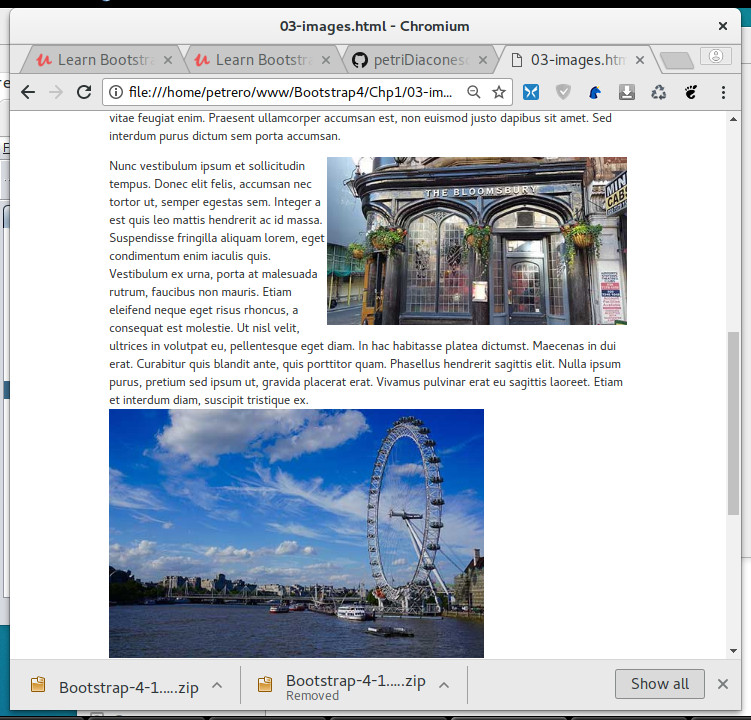
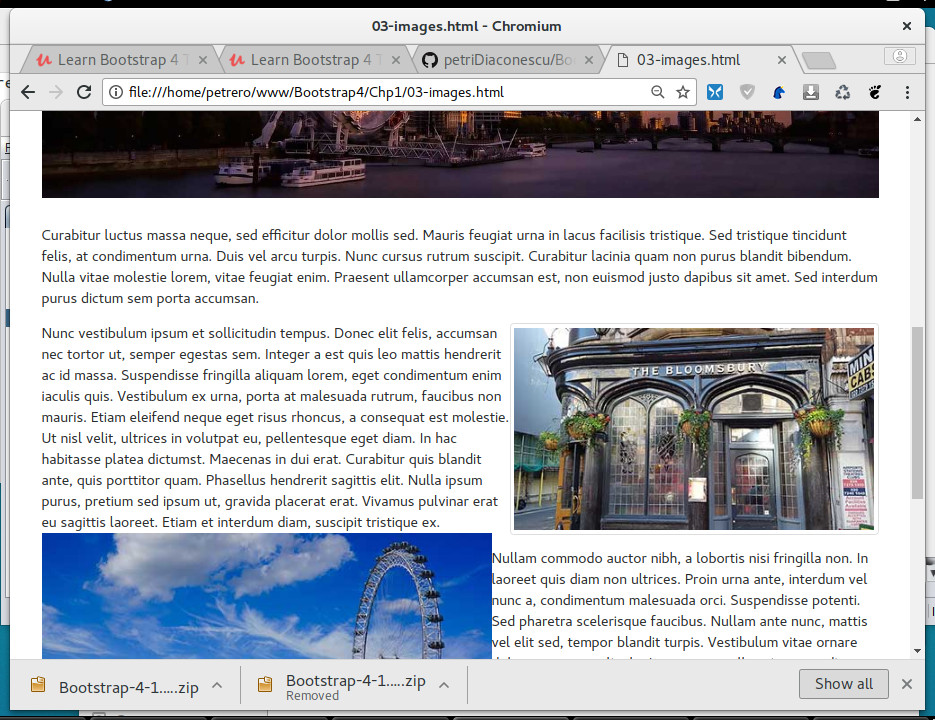
Add a thumbnail frame to images.

diff --git a/Chp1/03-images.html b/Chp1/03-images.html
@@ -33,10 +33,10 @@
                 
                 <p>Curabitur luctus massa neque, sed efficitur dolor mollis sed. Mauris feugiat urna in lacus facilisis tristique. Sed tristique tincidunt felis, at condimentum urna. Duis vel arcu turpis. Nunc cursus rutrum suscipit. Curabitur lacinia quam non purus blandit bibendum. Nulla vitae molestie lorem, vitae feugiat enim. Praesent ullamcorper accumsan est, non euismod justo dapibus sit amet. Sed interdum purus dictum sem porta accumsan.</p>
 
-                <img src="img/image_02.jpg" class="img-fluid float-right">
+                <img src="img/image_02.jpg" class="img-fluid float-right img-thumbnail">
                 <p>Nunc vestibulum ipsum et sollicitudin tempus. Donec elit felis, accumsan nec tortor ut, semper egestas sem. Integer a est quis leo mattis hendrerit ac id massa. Suspendisse fringilla aliquam lorem, eget condimentum enim iaculis quis. Vestibulum ex urna, porta at malesuada rutrum, faucibus non mauris. Etiam eleifend neque eget risus rhoncus, a consequat est molestie. Ut nisl velit, ultrices in volutpat eu, pellentesque eget diam. In hac habitasse platea dictumst. Maecenas in dui erat. Curabitur quis blandit ante, quis porttitor quam. Phasellus hendrerit sagittis elit. Nulla ipsum purus, pretium sed ipsum ut, gravida placerat erat. Vivamus pulvinar erat eu sagittis laoreet. Etiam et interdum diam, suscipit tristique ex.
 
-                <img src="img/image_03.jpg" class="img-fluid float-left">
+                <img src="img/image_03.jpg" class="img-fluid float-left img-thumbnail">
                 <p>Nullam commodo auctor nibh, a lobortis nisi fringilla non. In laoreet quis diam non ultrices. Proin urna ante, interdum vel nunc a, condimentum malesuada orci. Suspendisse potenti. Sed pharetra scelerisque faucibus. Nullam ante nunc, mattis vel elit sed, tempor blandit turpis. Vestibulum vitae ornare dolor, eu posuere ligula. Integer non tellus sit amet odio feugiat posuere. Praesent vel ante ac ipsum dapibus fermentum. Mauris tristique lobortis pellentesque. Nullam luctus lectus sed ante semper hendrerit. Curabitur ut est vitae mauris porttitor rhoncus vitae in turpis. Etiam malesuada metus a nunc egestas, a efficitur ligula cursus. Morbi diam nisi, pretium quis odio at, tristique venenatis nisi. Mauris quam mi, cursus non lectus eget, auctor hendrerit odio. Cras ligula eros, bibendum porttitor hendrerit at, tristique non felis.</p>
                 
                 <div class="text-center">
